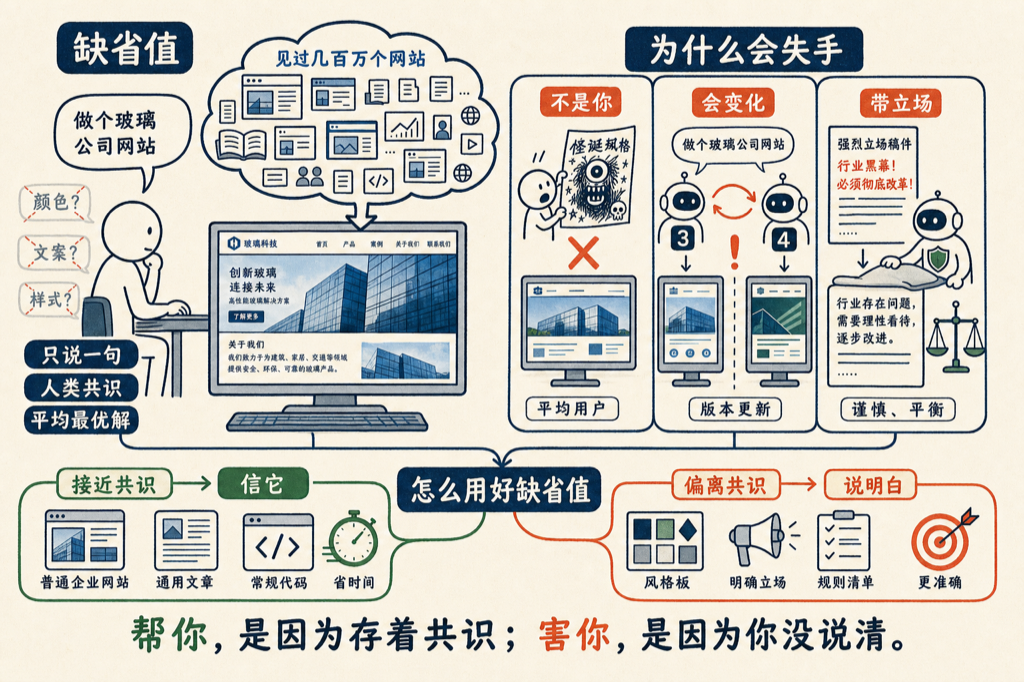
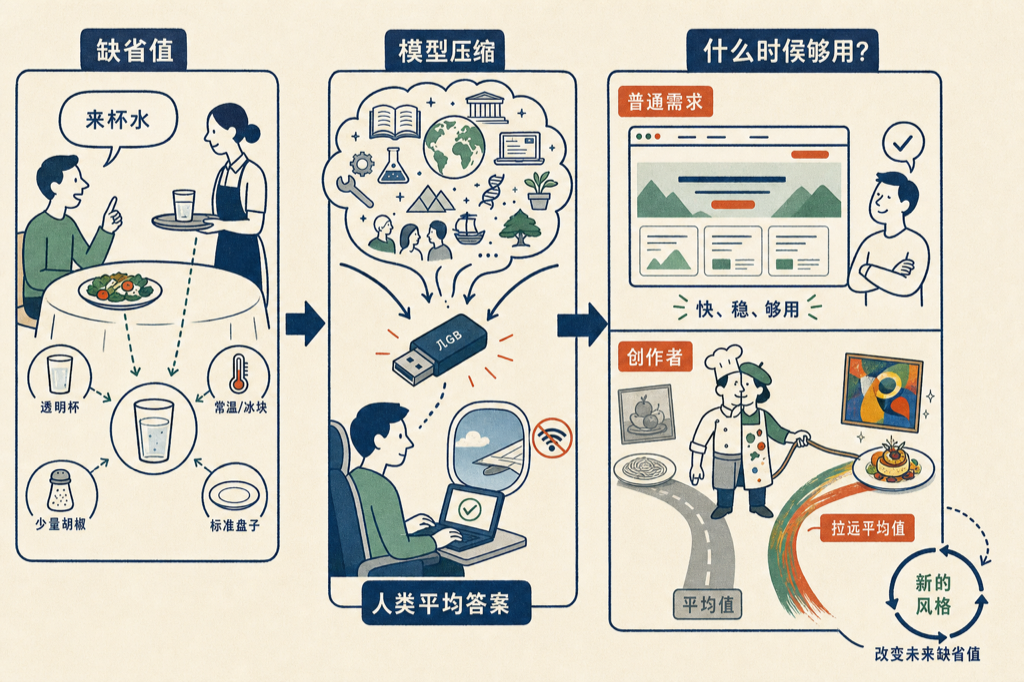
publish: 2026-06-17-llm-queshengzhi

diff --git a/articles/2026-06-17-llm-queshengzhi/content.html b/articles/2026-06-17-llm-queshengzhi/content.html
@@ -1,0 +1,41 @@
+<p>跟 Claude Code 说，「帮我给 ccglass 做一个网站」，什么都不多说。什么颜色？不说。什么样式？不说。里面写什么？不说。他建立一个网站所需要的主要信息？都不说。你猜他能做出一个漂亮的网站吗？</p>
+<p><br></p>
+<p>当然可以。</p>
+<p><br></p>
+<p>他怎么做到的？用的是缺省值。</p>
+<p><br></p>
+<p>虽然我没有告诉他任何细节，但他自己选择了：</p>
+<p><br></p>
+<ul><li>最通用的视觉语言</li><li>最少风险的布局方案</li><li>转化率最高的页面结构模板</li></ul>
+<p><br></p>
+<p>大语言模型是人类知识的压缩。在没有 Wifi 的万米高空，我用 Gemma 跑在本地，几 G 的数据，问他这个世界上我感兴趣的大多数知识——他居然都能回答。这不是联网，这是压缩。他把人类历史上的知识，压进了一个几 G 的小文件里。</p>
+<p><br></p>
+<p>换句话说，如果地球毁灭了，有一艘飞船逃离，只要带着一个几 G 的 U 盘，就可以把人类大多数的主要知识带到另一个星球去。<span style="color:#c0392b;">这里面浓缩的，就是人类历史对绝大多数问题的缺省值。</span></p>
+<p><br></p>
+<p><strong style="color:#ff0000;">什么是缺省值？</strong></p>
+<p><br></p>
+<p>我坐在餐厅里说："给我一杯水。" 服务员拿来了水。在中国，八成是常温的；在美国，八成是冰水。我没有说，但他给了他认为最合理的选择——那个选择，是当地文化几十年沉淀下来的缺省值。我点了沙拉，里面放没放胡椒？放了多少？也是缺省值，除非我额外提出。</p>
+<p><br></p>
+<p>整个世界充满了缺省值。否则我们没法生活——我们的大脑是有限的，不可能在每次进餐馆的时候，都精确要求盘子多大、什么花纹、什么质地。而且要求了八成也没用，因为每个餐厅都在他们的缺省值提供服务，无法对每个顾客定制非标准品。</p>
+<p><br></p>
+<p><strong style="color:#ff0000;">那到底哪些要用缺省值，哪些不要？</strong></p>
+<p><br></p>
+<p>完全取决于你的实际需要。</p>
+<p><br></p>
+<p>如果你只是想要一个立刻上线、有功能性、有审美的网站，缺省值就够了——就像在餐厅点菜，你把盘子、摆盘、调味全交给厨师来决定。但如果你就是那个厨师，或者你是餐厅的主人，你就必须自己做出回答。</p>
+<p><br></p>
+<p>艺术家，就是那个把选择从人类平均缺省值努力拉远的人。</p>
+<p><br></p>
+<p>达到人类的平均水平，你会是一个好画家——透视对、结构合理、色彩匀称。但<span style="color:#c0392b;">真正的画家，要找到远离人类平均值，但依然美的地方。</span>梵高，把油画引入了绚烂的色彩；毕加索，把人引入了抽象的线条。这些都不是缺省值，但是美。而这些点的存在，又进一步改变着人类的缺省值。</p>
+<p><br></p>
+<p>所以，当我们拿到一个大路货的网站、大路货的 APP，应该欣然接受。<span style="color:#c0392b;">它是最省脑力的作品，是人类过去所有人思维的结晶。</span></p>
+<p><br></p>
+<p>AI 的时代，给了我们一个前所未有的选择。想省心的时候，把专业的事情交给专业的人——他替你把人类的共识打包好了；愿意更明确表达的时候，有无穷无尽的方法去驯化他，给出你希望的定制。</p>
+<p><br></p>
+<p>而这种离开缺省值的部分，就叫做专业。前 AI 时代如此，AI 时代依然如此。</p>
+<p><br></p>
+<p><img src="http://mmbiz.qpic.cn/mmbiz_png/x701icxIMoQMibDUTab0yaYX0lPsVh9giamzRx1K2OiavyxNLuR3k5X9pt1Yia6NO8XMkiawSmBgMX9eLweemU0MIa20VjZcvXgXMVm0Vm2ibj8kVY/0?wx_fmt=png" alt=""></p>
+<p><br></p>
+<!--RECENT_ARTICLES_START-->
+<section style="margin-top:28px;padding-top:16px;border-top:1px solid #e5e5e5;line-height:2.2;font-size:0.95em;"><strong style="color:#ff0000;">最近文章</strong><br><a class="normal_text_link mp_article_text_link" target="_blank" style="" href="https://mp.weixin.qq.com/s/-vvqwMWruUwThoY9yaecmg" textvalue="工程师的浪漫" data-itemshowtype="0" linktype="text" data-linktype="2">工程师的浪漫</a><br><a class="normal_text_link mp_article_text_link" target="_blank" style="" href="https://mp.weixin.qq.com/s/fdpshvAlPfVr0c3_e7q1aw" textvalue="用 Claude Code 比用 Word 容易" data-itemshowtype="0" linktype="text" data-linktype="2">用 Claude Code 比用 Word 容易</a><br><a class="normal_text_link mp_article_text_link" target="_blank" style="" href="https://mp.weixin.qq.com/s/qgXBlHSVSgckPF8ITz-p7A" textvalue="在 CLAUDE.md 里养一只金丝雀" data-itemshowtype="0" linktype="text" data-linktype="2">在 CLAUDE.md 里养一只金丝雀</a><br><a class="normal_text_link mp_article_text_link" target="_blank" style="" href="https://mp.weixin.qq.com/s/rVIdslZq-1B2A3SWWqneNA" textvalue="为什么我们看到 AI 写的东西，就会觉得被冒犯？" data-itemshowtype="0" linktype="text" data-linktype="2">为什么我们看到 AI 写的东西，就会觉得被冒犯？</a><br><a class="normal_text_link mp_article_text_link" target="_blank" style="" href="https://mp.weixin.qq.com/s/OqKnabjSCRPOuKDO-P7aMA" textvalue="56 行代码的 Claude Code 平替的详细分析" data-itemshowtype="0" linktype="text" data-linktype="2">56 行代码的 Claude Code 平替的详细分析</a></section>
+<!--RECENT_ARTICLES_END-->

diff --git a/articles/2026-06-17-llm-queshengzhi/article.md b/articles/2026-06-17-llm-queshengzhi/article.md
@@ -4,40 +4,40 @@
 
 他怎么做到的？用的是缺省值。
 
-大语言模型是人类知识的压缩。当我在没有 Wifi 的飞机上，在万米高空飞行，我还是能让他帮我做出一个好网站——因为他需要的知识，不在网上，在他身体里。他见过几百万个公司网站，知道玻璃公司用什么颜色，知道首页应该放什么，知道"关于我们"怎么写。这些全都在他肚子里，不用我告诉他。
+虽然我没有告诉他任何细节，但他自己选择了：
 
-这是 LLM 缺省值和传统软件缺省值的本质区别。
+- 最通用的视觉语言
+- 最少风险的布局方案
+- 转化率最高的页面结构模板
 
-传统软件的缺省值是工程师拍脑袋定的——字体大小默认 14px，颜色默认黑色，这些是任意的。LLM 的缺省值不一样，是从人类几十年的内容里蒸馏出来的。<span style="color:#c0392b;">他的"默认"，其实是人类的"平均最优解"。</span>
+大语言模型是人类知识的压缩。在没有 Wifi 的万米高空，我用 Gemma 跑在本地，几 G 的数据，问他这个世界上我感兴趣的大多数知识——他居然都能回答。这不是联网，这是压缩。他把人类历史上的知识，压进了一个几 G 的小文件里。
 
-这是缺省值的是。
+换句话说，如果地球毁灭了，有一艘飞船逃离，只要带着一个几 G 的 U 盘，就可以把人类大多数的主要知识带到另一个星球去。<span style="color:#c0392b;">这里面浓缩的，就是人类历史对绝大多数问题的缺省值。</span>
 
-缺省值的非，有三层。
+**什么是缺省值？**
 
-第一，<span style="color:#c0392b;">缺省值代表的是平均用户，不是你。</span>
+我坐在餐厅里说："给我一杯水。" 服务员拿来了水。在中国，八成是常温的；在美国，八成是冰水。我没有说，但他给了他认为最合理的选择——那个选择，是当地文化几十年沉淀下来的缺省值。我点了沙拉，里面放没放胡椒？放了多少？也是缺省值，除非我额外提出。
 
-ccglass 的网站，Claude 做得漂亮，是因为玻璃公司网站有普遍的审美。但如果你的需求是反常识的——怪诞风格、反传统内容、垂直领域的专家用户——缺省值就会把你带偏。他做的是"普通好的网站"，不是"你要的网站"。
+整个世界充满了缺省值。否则我们没法生活——我们的大脑是有限的，不可能在每次进餐馆的时候，都精确要求盘子多大、什么花纹、什么质地。而且要求了八成也没用，因为每个餐厅都在他们的缺省值提供服务，无法对每个顾客定制非标准品。
 
-不只是网站。我用他写文章，他默认平衡；我用他写代码，他默认保守加警告；我让他做判断，他默认给几个选项而不是给结论。这些都是缺省值，不是能力问题。
+**那到底哪些要用缺省值，哪些不要？**
 
-第二，缺省值会悄悄改变。
+完全取决于你的实际需要。
 
-Claude 4 的默认行为和 Claude 3 不一样。同一个 prompt，两个版本的结果可能完全不同。你的工作流如果依赖了某个缺省值，根本不知道它什么时候悄悄变了。只会在某次更新之后发现结果不对，然后花时间去找原因。
+如果你只是想要一个立刻上线、有功能性、有审美的网站，缺省值就够了——就像在餐厅点菜，你把盘子、摆盘、调味全交给厨师来决定。但如果你就是那个厨师，或者你是餐厅的主人，你就必须自己做出回答。
 
-第三，缺省值是别人的价值观，不是你的。
+艺术家，就是那个把选择从人类平均缺省值努力拉远的人。
 
-Claude 在没有特别指示的时候，会表现得"负责任"、"平衡"、"谨慎"。这些词背后是 Anthropic 的选择。他会在某些话题上自动补一句"不同的人有不同的看法"，会在你让他写强烈立场的文章时悄悄软化措辞。有时候和你想要的一致，有时候不是。
+达到人类的平均水平，你会是一个好画家——透视对、结构合理、色彩匀称。但<span style="color:#c0392b;">真正的画家，要找到远离人类平均值，但依然美的地方。</span>梵高，把油画引入了绚烂的色彩；毕加索，把人引入了抽象的线条。这些都不是缺省值，但是美。而这些点的存在，又进一步改变着人类的缺省值。
 
-**那怎么用好缺省值？**
+所以，当我们拿到一个大路货的网站、大路货的 APP，应该欣然接受。<span style="color:#c0392b;">它是最省脑力的作品，是人类过去所有人思维的结晶。</span>
 
-知道什么时候该信它，什么时候该覆盖它。
+AI 的时代，给了我们一个前所未有的选择。想省心的时候，把专业的事情交给专业的人——他替你把人类的共识打包好了；愿意更明确表达的时候，有无穷无尽的方法去驯化他，给出你希望的定制。
 
-ccglass 的例子，信缺省值是对的——省了大量时间，他做出来的已经足够好。但如果你想要特定的风格、特定的立场、特定的约束，就要明确说出来，不然他按他的缺省值来。
-
-缺省值帮了你，是因为他存的是人类的共识。
-
-<span style="color:#c0392b;">缺省值害了你，是因为你的需求偏离了共识，而你没有告诉他。</span>
-
-这是两件不同的事，要分清楚。
+而这种离开缺省值的部分，就叫做专业。前 AI 时代如此，AI 时代依然如此。
 
 ![](./illustration.png)
+
+<!--RECENT_ARTICLES_START-->
+<section style="margin-top:28px;padding-top:16px;border-top:1px solid #e5e5e5;line-height:2.2;font-size:0.95em;"><strong style="color:#ff0000;">最近文章</strong><br><a class="normal_text_link mp_article_text_link" target="_blank" style="" href="https://mp.weixin.qq.com/s/-vvqwMWruUwThoY9yaecmg" textvalue="工程师的浪漫" data-itemshowtype="0" linktype="text" data-linktype="2">工程师的浪漫</a><br><a class="normal_text_link mp_article_text_link" target="_blank" style="" href="https://mp.weixin.qq.com/s/fdpshvAlPfVr0c3_e7q1aw" textvalue="用 Claude Code 比用 Word 容易" data-itemshowtype="0" linktype="text" data-linktype="2">用 Claude Code 比用 Word 容易</a><br><a class="normal_text_link mp_article_text_link" target="_blank" style="" href="https://mp.weixin.qq.com/s/qgXBlHSVSgckPF8ITz-p7A" textvalue="在 CLAUDE.md 里养一只金丝雀" data-itemshowtype="0" linktype="text" data-linktype="2">在 CLAUDE.md 里养一只金丝雀</a><br><a class="normal_text_link mp_article_text_link" target="_blank" style="" href="https://mp.weixin.qq.com/s/rVIdslZq-1B2A3SWWqneNA" textvalue="为什么我们看到 AI 写的东西，就会觉得被冒犯？" data-itemshowtype="0" linktype="text" data-linktype="2">为什么我们看到 AI 写的东西，就会觉得被冒犯？</a><br><a class="normal_text_link mp_article_text_link" target="_blank" style="" href="https://mp.weixin.qq.com/s/OqKnabjSCRPOuKDO-P7aMA" textvalue="56 行代码的 Claude Code 平替的详细分析" data-itemshowtype="0" linktype="text" data-linktype="2">56 行代码的 Claude Code 平替的详细分析</a></section>
+<!--RECENT_ARTICLES_END-->
